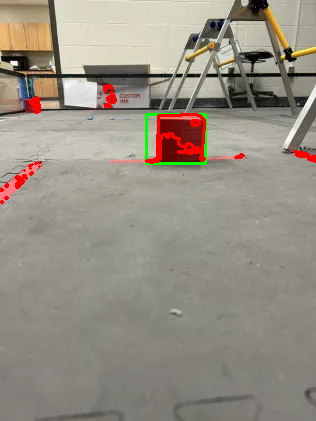
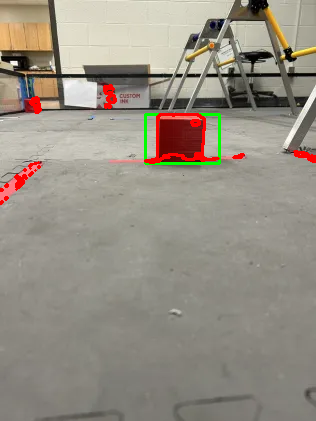
Tuning.

Changed region(s): [[0.4557, 0.247, 0.712, 0.4014], [0.5127, 0.247, 0.5696, 0.2779]]

diff --git a/main/src/Main.java b/main/src/Main.java
@@ -18,6 +18,7 @@ public class Main {
     }
 
     // Static auxilary matrices since EOCV won't automatically release matrices per frame process.
+    // Note: HSV hue [0, 179] (not [0, 359]).
     private static Mat blurred = new Mat();
     private static Mat hsv = new Mat();
     private static Mat mask1 = new Mat(), mask2 = new Mat();
@@ -27,10 +28,10 @@ public class Main {
 
     public static void main(String[] args) {
 
-        Scalar lowerRed = new Scalar(0, 100, 100);
+        Scalar lowerRed = new Scalar(0, 95, 95);
         Scalar upperRed = new Scalar(10, 255, 255);
-        Scalar lowerBlue = new Scalar(100, 100, 100);
-        Scalar upperBlue = new Scalar(225, 255, 255);
+        Scalar lowerBlue = new Scalar(100, 80, 80);
+        Scalar upperBlue = new Scalar(130, 255, 255);
 
         String directory = "resources/";
         String outputDirectory = "output/";
@@ -47,7 +48,7 @@ public class Main {
             Mat input = Imgcodecs.imread(test.path);
 
             // src, threshold, gaussian kernel size, HSV ranges
-            List<VisionObject> objs = coloredObjectCoordinates(input, 0.01, test.ranges);
+            List<VisionObject> objs = coloredObjectCoordinates(input, 0.02, test.ranges);
             // src, gaussian kernel size
             Mat g = gaussian(input).clone();
             // src, ranges
